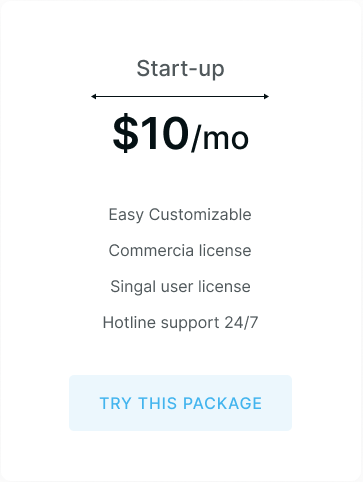
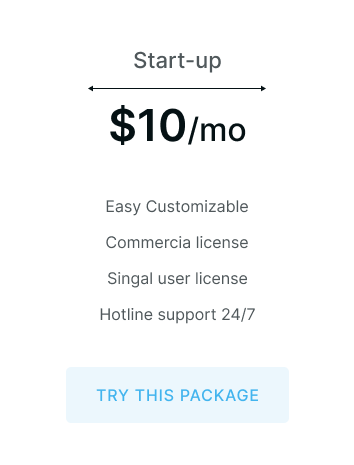
centering

diff --git a/index.html b/index.html
@@ -11,22 +11,35 @@
     <link rel="manifest" href="/site.webmanifest">
 
     <link rel="stylesheet" href="css/styles.css">
-    <title>Week-5-Plans</title>
+    <title><Week-6></Week-6>-Plans</title>
 </head>
 
-<body id="center">
-    <h1>Choose your best pricing plan</h1>
-    <p>Added for Monthly</p> <button><img src="./IMG/toggle.png" alt=""></button><p>Yearly</p>
-    <script src="js/scripts-dist.js"></script>
-    <button><img src="./IMG/10$plan.png" alt="10 dollar plan"></button>
-    <button><img src="./IMG/30$plan.png" alt="30 dollar plan"></button>
-    <button><img src="./IMG/40$plan.png" alt="49 dollar plan"></button>
+<body>
+    <section id="plans">
+        <div id="plans-header">
+            <h1>Choose your best pricing plan</h1>
+            <p>Added for Monthly <label class="switch">
+                <input type="checkbox">
+            </label> Yearly</p>
+        </div>
+
+    
+   <div id="plan-cards">
+    
+        <button><img src="./IMG/10$plan.png" alt="10 dollar plan"></button>
+        <button><img src="./IMG/30$plan.png" alt="30 dollar plan"></button>
+        <button><img src="./IMG/40$plan.png" alt="49 dollar plan"></button>
+   </div>
+    
+   </section>
     
     <div id="validation-logo">
         <a href=" https://validator.w3.org/nu/?doc=https%3A%2F%2Fweek-5-plans--info151oc86.netlify.app%2F" target="_blank">
             <img src="IMG/html-logo.svg" alt="Valid HTML 5">
             </a>
     </div>
+
+    <script src="js/scripts-dist.js"></script>
 
 </body>
 </html>

diff --git a/css/styles.css b/css/styles.css
@@ -332,12 +332,54 @@ template {
     Base
 ============= */
 #validation-logo {
-  margin-top: 60px;
+  margin-top: 80px;
+  text-align: center;
+}
+
+#plans-header {
+  background-color: white;
+}
+#plans-header img {
+  border: none;
+  background-color: white;
+}
+#plans-header h1 {
+  text-align: center;
+  margin-top: 100px;
+}
+#plans-header p {
+  text-align: center;
+}
+
+#plan-cards {
+  text-align: center;
+  background-color: white;
+}
+#plan-cards img {
+  border: none;
+  background-color: white;
+}
+
+img {
+  border: none;
+  background-color: white;
+}
+
+ul {
+  margin: 0;
+  padding: 0;
+}
+ul li {
+  list-style: none;
 }
 
 /* =============
     Typography
 ============= */
+body {
+  font-family: "Inter", sans-serif;
+}
+
 /* =============
     Buttons
 ============= */

diff --git a/scss/base/_base.scss b/scss/base/_base.scss
@@ -3,5 +3,45 @@
 ============= */
 
 #validation-logo{
-    margin-top: 60px;
+    margin-top: 80px;
+    text-align: center;
+  
+}
+
+#plans-header{
+    img{
+        border: none;
+        background-color: white;
+    }
+    background-color: white;
+    h1{
+        text-align: center;
+        margin-top: 100px;
+    }
+    p{
+        text-align: center;
+    }
+
+}
+
+#plan-cards{
+    img{
+        border: none;
+        background-color: white;
+    }
+    text-align: center;
+    background-color: white;
+}
+
+img{
+    border: none;
+    background-color: white;
+}
+
+ul{
+    margin:0;
+    padding: 0;
+    li{
+        list-style: none;
+    }
 }

diff --git a/scss/base/_typography.scss b/scss/base/_typography.scss
@@ -1,3 +1,6 @@
 /* =============
     Typography
 ============= */
+body{
+ font-family: 'Inter', sans-serif;
+}
